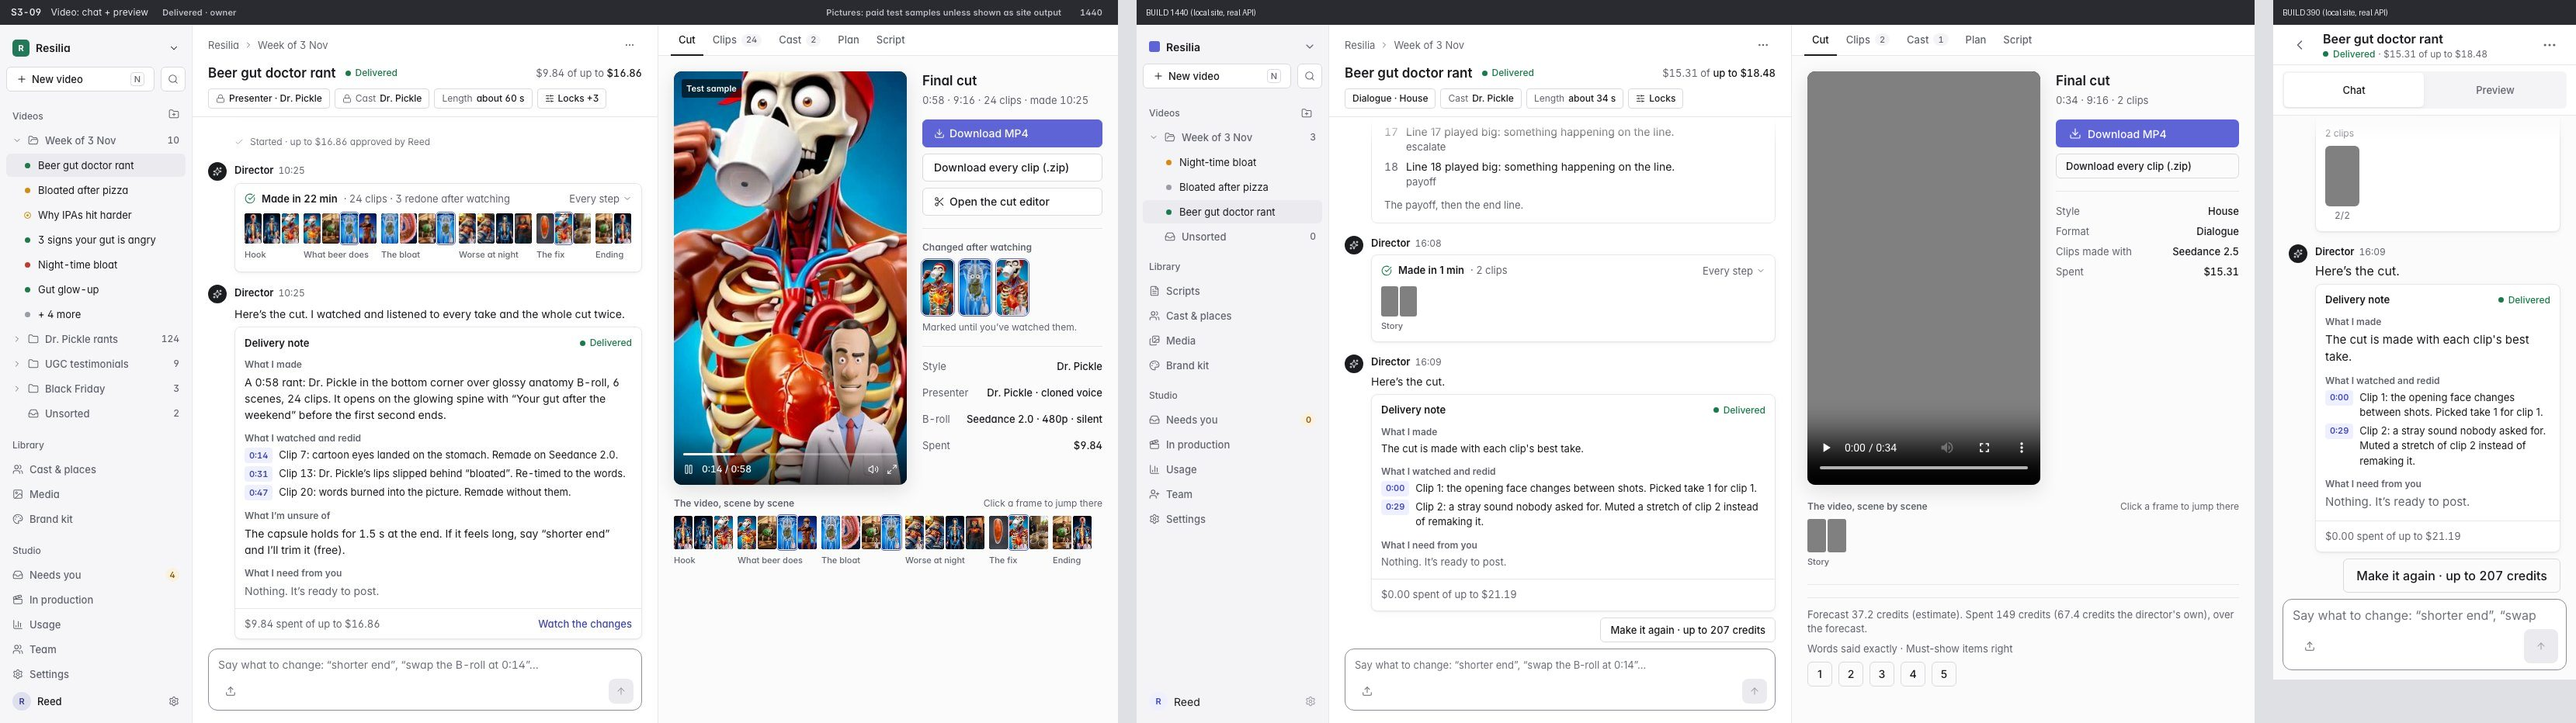
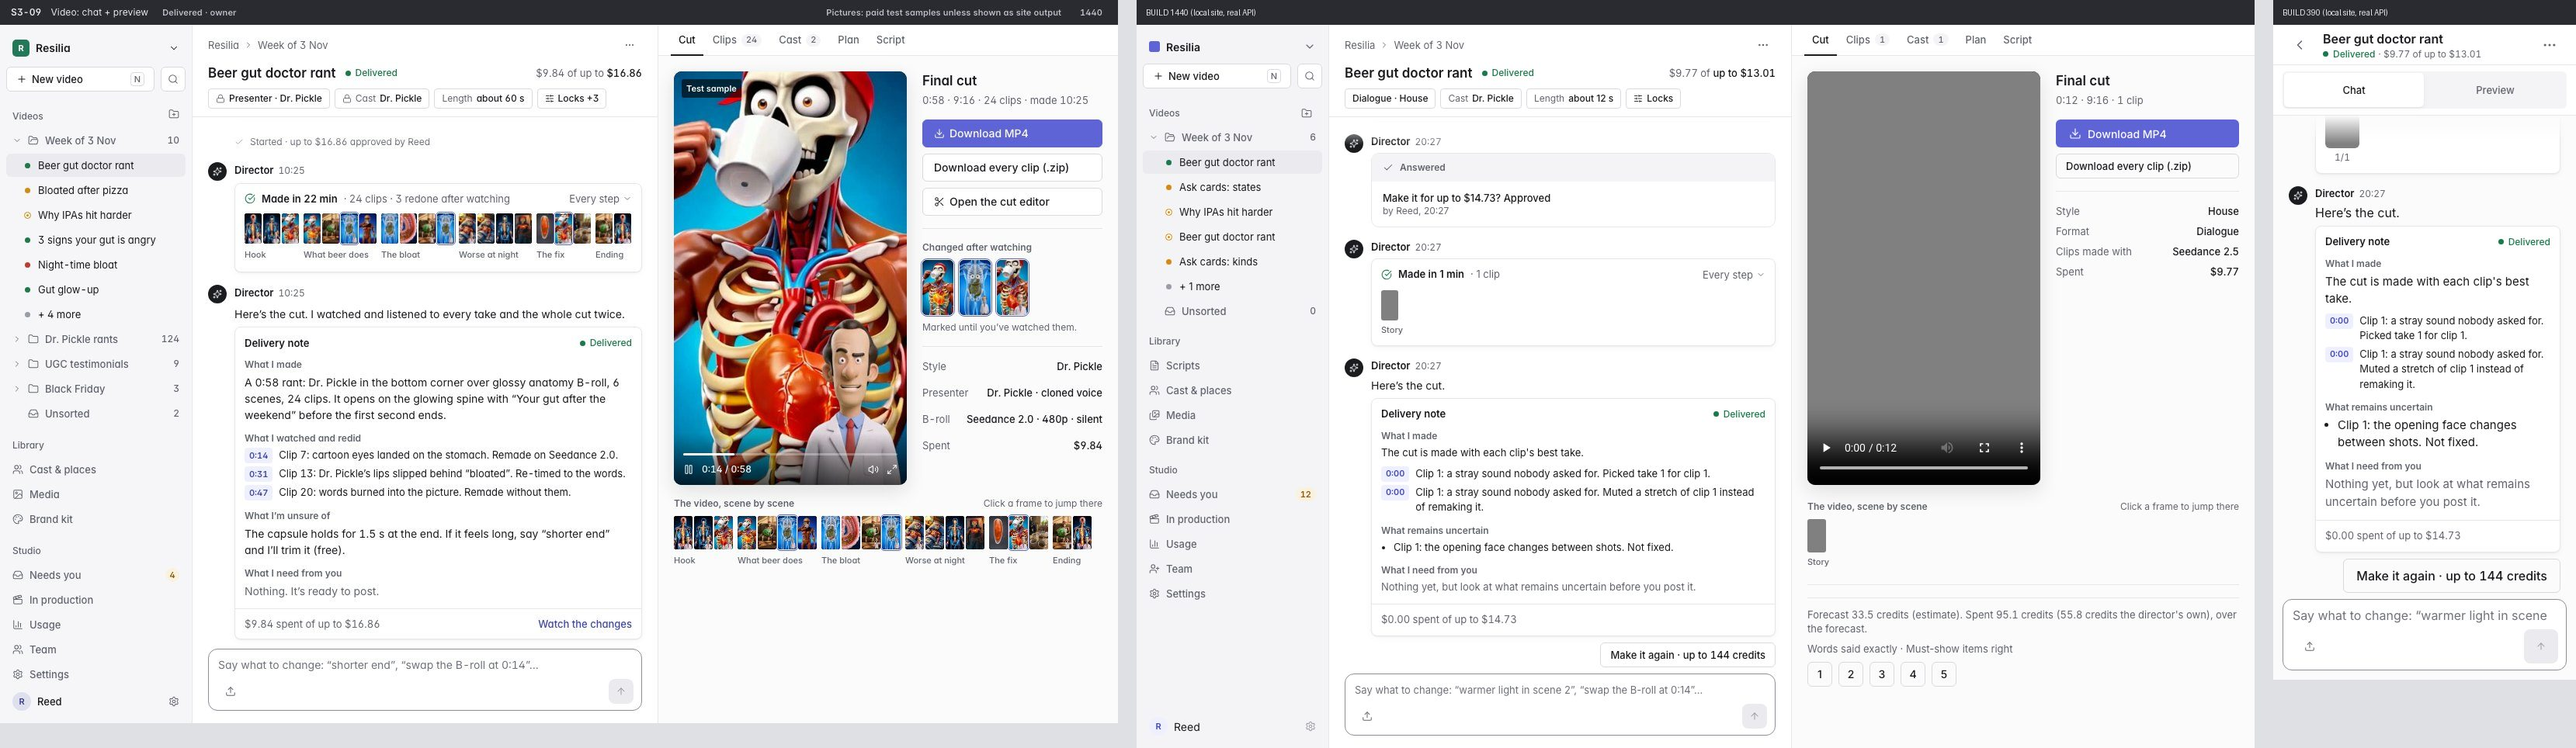
The delivery note in Reed's three parts, what's still open under What remains uncertain, and no box promise of a free change

diff --git a/web/src/videos/videopage.test.tsx b/web/src/videos/videopage.test.tsx
@@ -138,7 +138,7 @@ test("S3-09: delivered, the cut plays in the Cut tab with its downloads and what
   expect(within(panel).getByRole("link", { name: "Download MP4" })).toHaveAttribute("download", "beer-gut-doctor-rant.mp4");
   expect(within(panel).getByRole("link", { name: "Download every clip (.zip)" })).toHaveAttribute("href", "/api/projects/50/clips.zip");
   expect(within(panel).getByText("$9.84")).toBeInTheDocument();
-  expect(screen.getByPlaceholderText(/^Say what to change: “shorter end”/)).toBeInTheDocument();
+  expect(screen.getByPlaceholderText(/^Say what to change: “warmer light in scene 2”/)).toBeInTheDocument(); // never a promise that a change is free (Reed, 5 Nov)
   expect(screen.queryByRole("button", { name: "Stop" })).toBeNull();
 });
 
@@ -311,7 +311,7 @@ const scenes = [
 ];
 const record = (o: object = {}) => ({ run: "r9", status: "working", title: "Making the clips", sub: "3 of 4 · scene 2 of 2", tone: "now", started_at: at, ended_at: null, clips: 4, made: 3, redone: 1, scene_at: 2, scenes, counts: { all: 4, needs_you: 0, flagged: 0, redone: 1 }, minutes_left: 3, steps: [{ key: "read", state: "done", text: "Read the script", sub: "" }, { key: "takes", state: "now", text: "Making takes: 3 of 4", sub: "Clip 4 · scene 2 · 2 s · about 3 min" }, { key: "cut", state: "todo", text: "Watch and listen to the whole cut, then deliver", sub: "" }], spent: 40, up_to: 164, spent_usd: 4.1, changed: [{ clip_id: "c2", number: 2, take_id: 202, frame_file_id: 102, watched: false }], stopped: null, failed: null, ...o });
 const card = item("r9", "move", "Director", "Making the clips · 3 of 4 · scene 2 of 2", "running", later, { run: "r9" });
-const note = { made: "A 0:08 rant in 2 scenes.", redid: [{ at: 14, clip: "c2", text: "Clip 2: cartoon eyes landed on the stomach. Remade on Seedance 2.0." }], unsure: "The capsule holds for 1.5 s.", needs: "Nothing. It’s ready to post.", cost: "$9.84 spent of up to $16.86", spent: 96, up_to: 164, spent_usd: 9.84, cut: 2, seconds: 58, clips: 24 };
+const note = { made: "A 0:08 rant in 2 scenes.", redid: [{ at: 14, clip: "c2", text: "Clip 2: cartoon eyes landed on the stomach. Remade on Seedance 2.0." }], unsure: "The capsule holds for 1.5 s.", open: [] as string[], needs: "Nothing. It’s ready to post.", cost: "$9.84 spent of up to $16.86", spent: 96, up_to: 164, spent_usd: 9.84, cut: 2, seconds: 58, clips: 24 };
 
 test("S3-03/04: the run is one card: its frames scene by scene, the scene being made named; Every step opens the steps", async () => {
   setViewport(1440);
@@ -395,6 +395,9 @@ test("S3-09: delivered: the note in parts with the times it redid, the real cost
   expect(within(n).getByText("0:14")).toBeInTheDocument();
   expect(within(n).getByText("Clip 2: cartoon eyes landed on the stomach. Remade on Seedance 2.0.")).toBeInTheDocument();
   expect(within(n).getByText("The capsule holds for 1.5 s.")).toBeInTheDocument();
+  expect(within(n).getByRole("heading", { name: "What remains uncertain" })).toBeInTheDocument(); // Reed's three parts (5 Nov)
+  expect(within(n).getAllByRole("heading", { level: 4 }).map((h) => h.textContent)).toEqual(["What I made", "What remains uncertain", "What I need from you"]);
+  expect(within(n).getByText("Nothing. It’s ready to post.")).toBeInTheDocument(); // the server's words: ready only when nothing is open
   expect(within(n).getByText("$9.84 spent of up to $16.86")).toBeInTheDocument();
   expect(screen.getByText("Delivery note · Cut 1 · 0:58 · $9.10")).toBeInTheDocument(); // S3-12: the earlier cut, folded
   expect(screen.getByText("Here’s the cut.")).toBeInTheDocument();
@@ -405,6 +408,20 @@ test("S3-09: delivered: the note in parts with the times it redid, the real cost
   expect(await within(cut).findByRole("button", { name: "Clip 2, not watched yet" })).toBeInTheDocument(); // Changed after watching, outlined until watched
   await userEvent.click(within(within(cut).getByRole("list", { name: "The video, scene by scene" })).getByRole("button", { name: "Clip 1" }));
   await vi.waitFor(() => expect(calls.filter((c) => c.key === "POST /projects/50/director/seen").map((c) => c.body)).toContainEqual({ take_ids: [201] })); // a frame played is watched
+});
+
+test("S3-09: what the server knows is still open goes under What remains uncertain, and the note isn't ready to post", async () => {
+  setViewport(390);
+  const open = { ...note, unsure: "", open: ["The cut wasn't watched.", "Clip 3's take wasn't checked."], needs: "Nothing yet, but look at what remains uncertain before you post it." };
+  const thread = [item("t2", "move", "Director", "…", "done", later, { note: open })];
+  server(owner, null, run({ status: "delivered", thread }), { "GET /projects/50/director/progress": [200, record({ status: "delivered", title: "Made in 22 min", sub: "4 clips", tone: "done" })], "GET /projects/50/video": [200, { file_id: 8, take_ids: [], out_of_date: false }] });
+  renderApp("/b/1/videos/50");
+  const n = await screen.findByRole("region", { name: "Delivery note" });
+  expect(within(n).getByRole("heading", { name: "What remains uncertain" })).toBeInTheDocument();
+  expect(within(n).getByText("The cut wasn't watched.")).toBeInTheDocument();
+  expect(within(n).getByText("Clip 3's take wasn't checked.")).toBeInTheDocument();
+  expect(within(n).getByText("Nothing yet, but look at what remains uncertain before you post it.")).toBeInTheDocument();
+  expect(n.textContent).not.toMatch(/ready to post/);
 });
 
 test("S3-13: a long video reads a row a scene with its count, eight at most, and how long is left", async () => {

diff --git a/web/src/videos/AskCard.tsx b/web/src/videos/AskCard.tsx
@@ -29,11 +29,12 @@ export function useAsks(projectId: number, live: boolean) {
 /** After any answer: the cards, the run (its waiting bar and start card), the header, Needs you and the jobs. */
 export function useAskRefresh(projectId: number) {
   const queryClient = useQueryClient();
-  return () =>
-    Promise.all([
-      ...[["asks", projectId], ["director", projectId], ["idea", projectId], ["run-progress", projectId], ["needs-you"], ["freestyle"]].map((queryKey) => queryClient.invalidateQueries({ queryKey })),
-      refreshJobs(queryClient),
-    ]);
+  // The press waits for its card only; the rest refresh behind it, so a slow read elsewhere never keeps the card busy.
+  return () => {
+    for (const queryKey of [["director", projectId], ["idea", projectId], ["run-progress", projectId], ["needs-you"], ["freestyle"]]) void queryClient.invalidateQueries({ queryKey });
+    void refreshJobs(queryClient);
+    return queryClient.invalidateQueries({ queryKey: ["asks", projectId] });
+  };
 }
 
 /** "$0.24" to the owner, "3 credits" to an editor (rule 4). */
@@ -127,8 +128,8 @@ export function AskCard({ ask: a, owner, onChangePlan, onWithdraw, onDone }: { a
   const money = ["start", "budget", "own", "plan"].includes(a.kind);
   const voice = a.kind === "voice";
   const brand = a.saved_in.replace(/^Saved in /, "") || "the brand";
-  // Where a clone goes, said before the paid press (Reed, 5 Nov; #1346's `clone_to` once it's on the API).
-  const cloneTo = ((a as Ask & { clone_to?: string }).clone_to || `Saved to ${brand}’s voices`).replace(/^Saved/, "saved");
+  // Where a clone goes, said before the paid press (Reed, 5 Nov; #1346's `clone_to`).
+  const cloneTo = (a.clone_to || `Saved to ${brand}’s voices`).replace(/^Saved/, "saved");
   const [failedUpload, setFailedUpload] = useState("");
   const go = (body: object, path?: "answer" | "generate" | "cancel" | "uploading") => act.mutate({ path, body }, { onSuccess: () => (setReplying(false), setText(""), setChanging(""), setFailedUpload(""), onDone?.()) });
   const error = act.isError || failedUpload ? <p role="alert" className="text-sm text-danger">{failedUpload || act.error?.message}</p> : null;
@@ -139,7 +140,7 @@ export function AskCard({ ask: a, owner, onChangePlan, onWithdraw, onDone }: { a
     const [cls, Icon] = HEAD[gone ? "gone" : "done"];
     const ans = a.answer as { name?: string; text?: string; file_id?: number | null; how?: string; reused?: boolean } | null;
     const what = money ? (ans?.how === "withdraw" ? "Withdrawn" : ans?.how === "keep" || ans?.how === "decline" ? "Kept as it is. Nothing was charged for it." : "Approved") : ans?.name ?? ans?.text ?? "";
-    const who = ans?.how === "clone" && ans.reused ? `Using ${ans.name ?? "that voice"}, already in ${brand}’s voices. Nothing was charged.` : a.answered_by && a.answered_at ? (a.by_owner ? `${a.answered_by} answered this for you at ${clock(a.answered_at)}. The video carried on.` : [ans?.how === "saved" && a.saved_in, `picked by ${a.answered_by}, ${clock(a.answered_at)}`].filter(Boolean).join(" · ")) : ans && "reused" in (ans as object) ? `${a.saved_in}, used again` : "";
+    const who = ans?.how === "clone" && ans.reused ? `Using ${ans.name ?? "that voice"}, already in ${brand}’s voices. Nothing was charged.` : a.answered_by && a.answered_at ? (a.by_owner ? `${a.answered_by} answered this for you at ${clock(a.answered_at)}. The video carried on.` : [ans?.how === "saved" && a.saved_in, `${money ? "by" : "picked by"} ${a.answered_by}, ${clock(a.answered_at)}`].filter(Boolean).join(" · ")) : ans && "reused" in (ans as object) ? `${a.saved_in}, used again` : "";
     return (
       <section id={`ask-${a.id}`} aria-label={a.question} className="overflow-hidden rounded-[10px] border border-border bg-surface">
         <p className={`flex items-center gap-2 px-3.5 py-2.5 text-xs font-semibold ${cls}`}>
@@ -500,10 +501,10 @@ export const isOpen = (a: Ask) => OPEN.includes(a.state);
 export function HeldSend({ projectId, change, upTo, sentAt, owner, onWithdraw }: { projectId: number; change: boolean; upTo: number | null | undefined; sentAt: string; owner: boolean; onWithdraw: () => void }) {
   const price = { credits: upTo ?? 0, usd: null };
   const ask: Ask = {
-    id: 0, project_id: projectId, kind: "start", topic: "", state: "held", by_owner: false, created_at: sentAt, can: owner ? [] : ["withdraw"], answered_by: "", saved_in: "", closed: "", choices: [], saved: [], options: [],
+    id: 0, project_id: projectId, kind: "start", topic: "", state: "held", by_owner: false, clone_to: "", created_at: sentAt, can: owner ? [] : ["withdraw"], answered_by: "", saved_in: "", closed: "", choices: [], saved: [], options: [],
     question: `${change ? "Make this change" : "Make it"}${upTo ? ` for up to ${said(price)}` : ""}?`,
     why: change ? "The owner has been asked. The cut stays as it is while it waits; nothing is charged." : "The owner has been asked. Nothing is made or charged while it waits.",
-    money: { up_to: price, clips: [], sent_at: sentAt, held: "" },
+    money: { up_to: price, clips: [], sent_at: sentAt, held: "", what: "" },
   };
   return <AskCard ask={ask} owner={owner} onWithdraw={onWithdraw} />;
 }

diff --git a/web/src/videos/RunCard.tsx b/web/src/videos/RunCard.tsx
@@ -289,8 +289,9 @@ export function Failed({ progress: r, projectId, onCarryOn, onSettings, busy, bl
 
 const money = (n: Note) => (n.spent_usd != null ? `$${n.spent_usd.toFixed(2)}` : `${Math.round(n.spent)} credits`);
 
-/** The delivery note (S3-09, S3-10, P-08): what it made, what it watched and redid with times, what it's unsure of, what it
- *  needs, and the real cost. `onWatch`: the changes it made, watched (the outline comes off). */
+/** The delivery note (S3-09, S3-10, P-08) in Reed's three parts (5 Nov, #1340): What I made, with what it watched and redid
+ *  at its times; What remains uncertain, the director's words and what the server knows is still open; What I need from
+ *  you, as the server says it ("ready to post" only when nothing is open); and the real cost. `onWatch`: the changes it made, watched (the outline comes off). */
 export function DeliveryNote({ note: n, onWatch, changes }: { note: Note; onWatch?: () => void; changes: number }) {
   const part = (title: string, body: ReactNode) => (
     <div className="flex flex-col gap-1">
@@ -308,20 +309,36 @@ export function DeliveryNote({ note: n, onWatch, changes }: { note: Note; onWatc
         </span>
       </div>
       <div className="flex flex-col gap-3 px-3 pb-3">
-        {part("What I made", <p className="text-[13px] leading-[19px] max-lg:text-[15px] max-lg:leading-[22px]">{n.made}</p>)}
-        {n.redid.length > 0 &&
+        {part(
+          "What I made",
+          <>
+            <p className="text-[13px] leading-[19px] max-lg:text-[15px] max-lg:leading-[22px]">{n.made}</p>
+            {n.redid.length > 0 && (
+              <ul aria-label="What I watched and redid" className="mt-1 flex flex-col gap-1 text-[13px]">
+                {n.redid.map((r, i) => (
+                  <li key={i} className="flex items-start gap-2">
+                    <span className="inline-flex h-5 shrink-0 items-center rounded-sm bg-accent-soft px-1.5 text-[11px] font-semibold tabular-nums text-accent-text">{mmss(r.at)}</span>
+                    <span className="min-w-0">{r.text}</span>
+                  </li>
+                ))}
+              </ul>
+            )}
+          </>,
+        )}
+        {(n.unsure || n.open.length > 0) &&
           part(
-            "What I watched and redid",
-            <ul className="flex flex-col gap-1 text-[13px]">
-              {n.redid.map((r, i) => (
-                <li key={i} className="flex items-start gap-2">
-                  <span className="inline-flex h-5 shrink-0 items-center rounded-sm bg-accent-soft px-1.5 text-[11px] font-semibold tabular-nums text-accent-text">{mmss(r.at)}</span>
-                  <span className="min-w-0">{r.text}</span>
-                </li>
-              ))}
-            </ul>,
+            "What remains uncertain",
+            <>
+              {n.unsure && <p className="text-[13px] leading-[19px] max-lg:text-[15px] max-lg:leading-[22px]">{n.unsure}</p>}
+              {n.open.length > 0 && (
+                <ul className="flex list-disc flex-col gap-0.5 pl-4 text-[13px] leading-[19px] max-lg:text-[15px] max-lg:leading-[22px]">
+                  {n.open.map((o, i) => (
+                    <li key={i}>{o}</li>
+                  ))}
+                </ul>
+              )}
+            </>,
           )}
-        {n.unsure && part("What I’m unsure of", <p className="text-[13px] leading-[19px] max-lg:text-[15px] max-lg:leading-[22px]">{n.unsure}</p>)}
         {part("What I need from you", <p className="text-[13px] text-muted max-lg:text-[15px]">{n.needs}</p>)}
       </div>
       <div className="flex items-center gap-2 border-t border-border px-3 py-2.5 text-[13px]">

diff --git a/web/src/videos/VideoChat.tsx b/web/src/videos/VideoChat.tsx
@@ -405,7 +405,7 @@ function Chat({ p, fs, run, clips, owner, maker, state, running, online, archive
 
   const waiting = state === "waiting";
   const fromScript = !!script && !!fs && serverTime(script.created_at) < serverTime(fs.created_at);
-  const placeholder = !online ? "You can type; it sends when you’re back" : run?.status === "delivered" || state === "delivered" ? "Say what to change: “shorter end”, “swap the B-roll at 0:14”…" : running && !turns.some((t) => t.tool) ? "Add anything the director should know" : "Tell the director what to change";
+  const placeholder = !online ? "You can type; it sends when you’re back" : run?.status === "delivered" || state === "delivered" ? "Say what to change: “warmer light in scene 2”, “swap the B-roll at 0:14”…" : running && !turns.some((t) => t.tool) ? "Add anything the director should know" : "Tell the director what to change";
   const note = queued.length ? (queued.length === 1 ? "Sends when you’re back." : `${queued.length} notes send when you’re back.`) : running && items.at(-1)?.kind === "message" ? "The director will read this on its next move." : noted ? (state === "stopped" || state === "ended" ? "Saved. Press Start again with this note to make it." : "Saved. Press Make it again to make this change.") : viaFreestyle && !owner && !running ? "Each change goes to the owner first. Nothing is spent until they say yes." : null;
   const closed = archived ? "It's archived. Restore it to keep working." : lookOnly ? lookOnly : waiting ? (fromScript ? "Opens once the owner approves" : "You can change it once the owner approves it, or withdraw it now.") : null;
   const first = fromScript && script && fs ? <ScriptCard fs={fs} script={script} pid={id} brandId={p?.brand_id ?? fs.brand_id ?? 0} /> : null;
